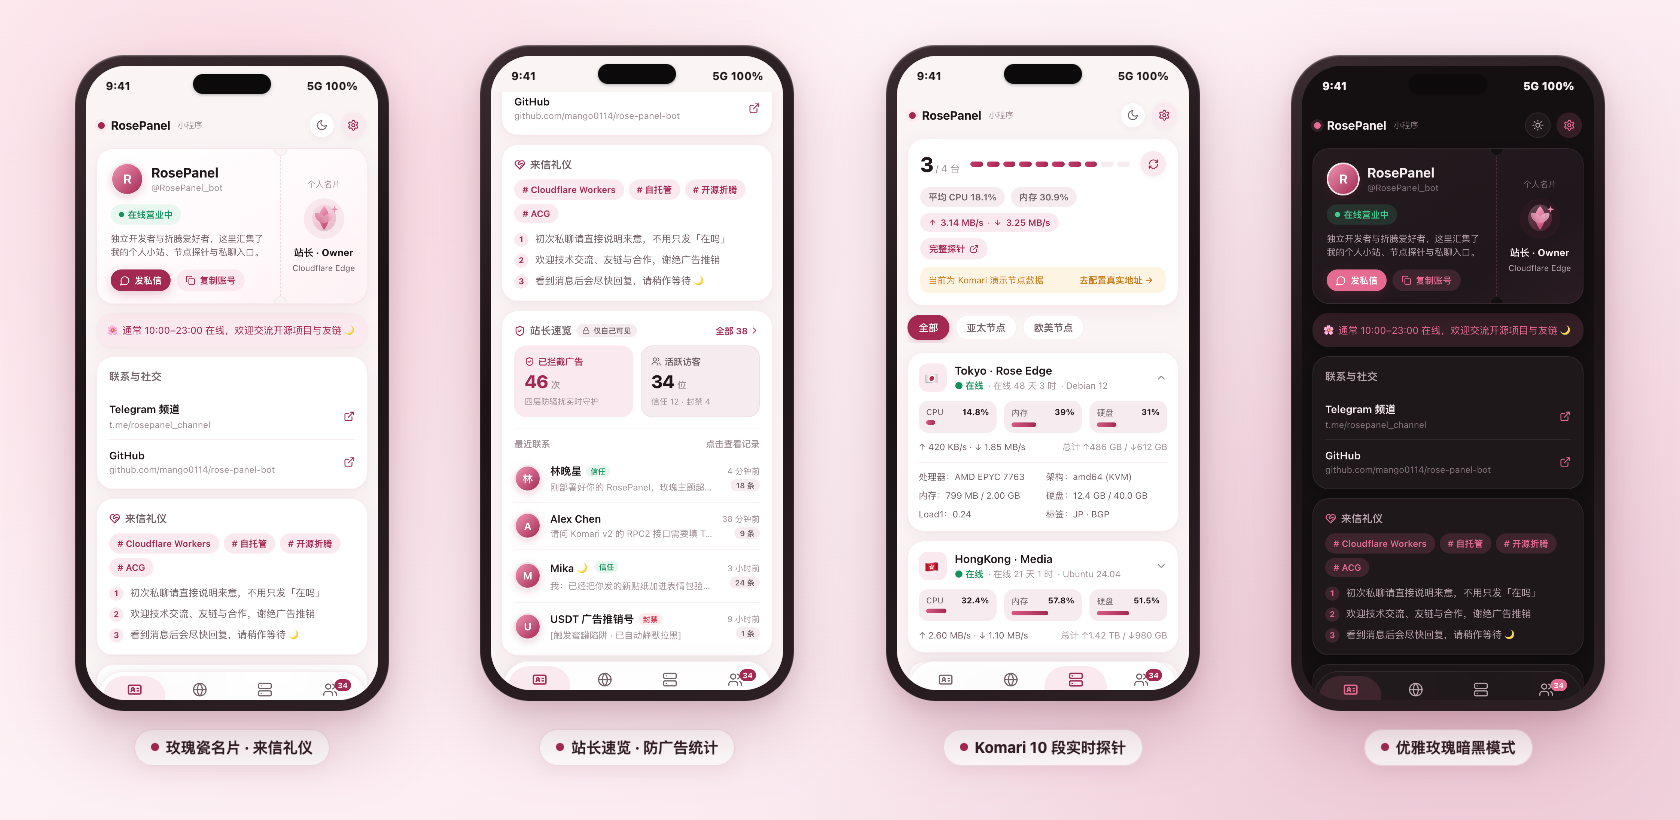
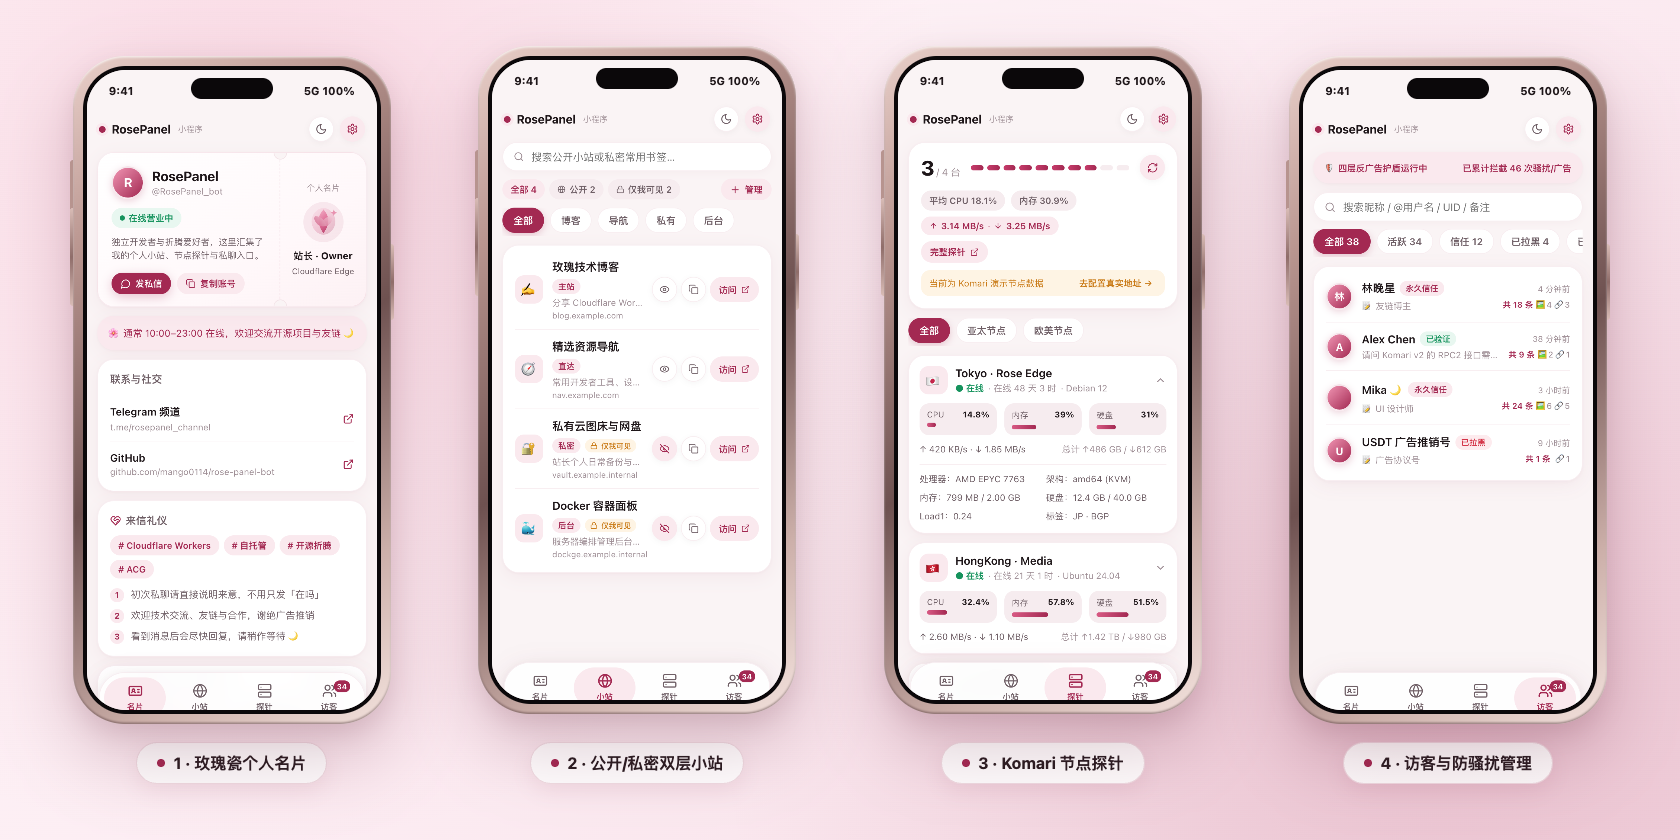
docs(showcase): add upright iPhone 18 Pro Max anti-spam & badge galleries and refine concise title

diff --git a/README.md b/README.md
@@ -23,7 +23,7 @@
   </a>
 </p>
 
-<sub>基于 <b>Cloudflare Workers</b> 免费托管的一体化 <b>Telegram 个人名片小程序</b> · 公开/私密双层小站 · Komari 实时节点探针 · 四层防广告双向私聊机器人 · 可选群签到系统</sub>
+<sub>高颜值 <b>Telegram 双向防广告私聊 &amp; 个人面板小程序</b> — 表情包看图验证 + 四层反骚扰护盾，内置公开/私密小站与 Komari 探针，Cloudflare Workers 免费部署</sub>
 
 </div>
 
@@ -35,12 +35,22 @@
   <img src="docs/assets/showcase.webp" alt="RosePanel Bot 动态功能演示" width="94%" />
 </div>
 
-<br />
+---
 
-## 📱 实机界面画廊
+## 🎭 主打亮点：自定义表情包看图防广告 & 动态贴纸徽章
 
 <div align="center">
-  <img src="docs/assets/preview-gallery.png" alt="RosePanel Bot 实机四屏预览" width="100%" />
+  <img src="docs/assets/showcase-antispam.png" alt="私聊 /add 3秒录表情包验证题与题库管理" width="100%" />
+  <br /><br />
+  <img src="docs/assets/showcase-badges.png" alt="私聊 /set 换动态贴纸主徽章与收藏徽章库" width="100%" />
+</div>
+
+---
+
+## 📱 四大菜单实机画廊（名片 · 小站 · 探针 · 访客）
+
+<div align="center">
+  <img src="docs/assets/preview-gallery.png" alt="RosePanel Bot 四屏实机预览" width="100%" />
 </div>
 
 ---
@@ -83,7 +93,7 @@ flowchart LR
 
 | 验证模式 | 原理与体验 | 防刷与防绕过 |
 | :--- | :--- | :--- |
-| **🎭 表情包看图猜题（私房推荐）** | 私聊发 `/add`（或在小程序贴纸包内点选）录入你收藏的动图/静图表情包与自定义趣味选项，**全网独一无二、协议号 0 破解率** | 答错自动换下一张贴纸、通过后自动清理贴纸 + 蜜罐陷阱与静默冷却 |
+| **🎭 表情包看图猜题（私房推荐）** | 私聊发 `/add`（或在小程序贴纸包内点选）录入你收藏的动图/静图表情包与自定义趣味选项，**真人一眼秒过、大幅提高自动化协议号绕过成本** | 答错自动换下一张贴纸、通过后自动清理贴纸 + 蜜罐陷阱与静默冷却 |
 | **🎯 Emoji 找茬 / 点选（默认）** | 3×3 纯图标按钮随机交替出题（8 同 1 异找茬或中文提示点选），**0 延迟、真人 0.5 秒通过** | 错 1 次立刻换题打乱，连错 2 次静默冷却 10 分钟（次数与时长可调） |
 | **📝 常识题库** | 本地 2×2 常识问答按钮，零外部依赖 | 同样享有错 1 次换题 + 蜜罐 + 静默冷却 |
 | **🛡 CF Turnstile 严格模式** | 遇到定向扫号攻击时一键开启，在 Telegram 内嵌 WebApp 完成 Cloudflare 服务端 `siteverify` 核验 | 未配密钥时自动回退至 Emoji 模式防卡死 |
